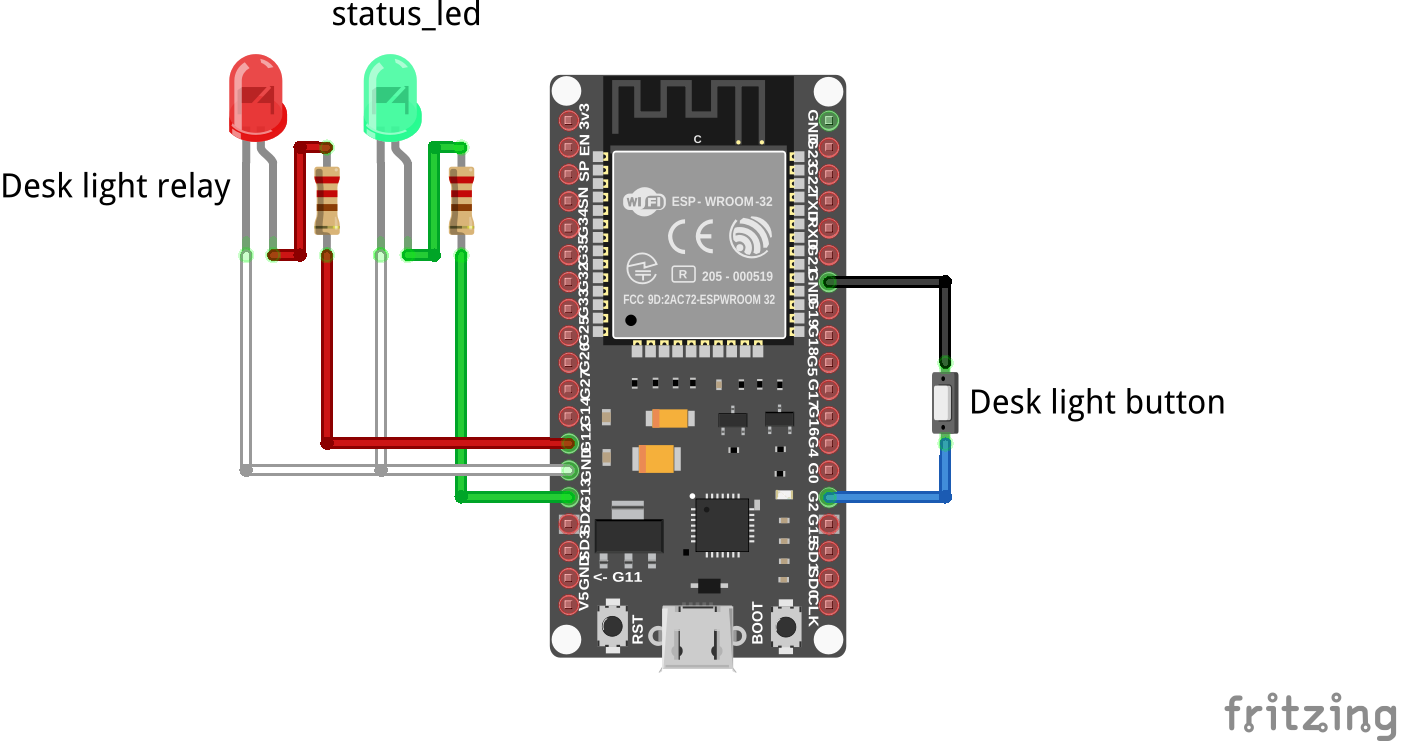
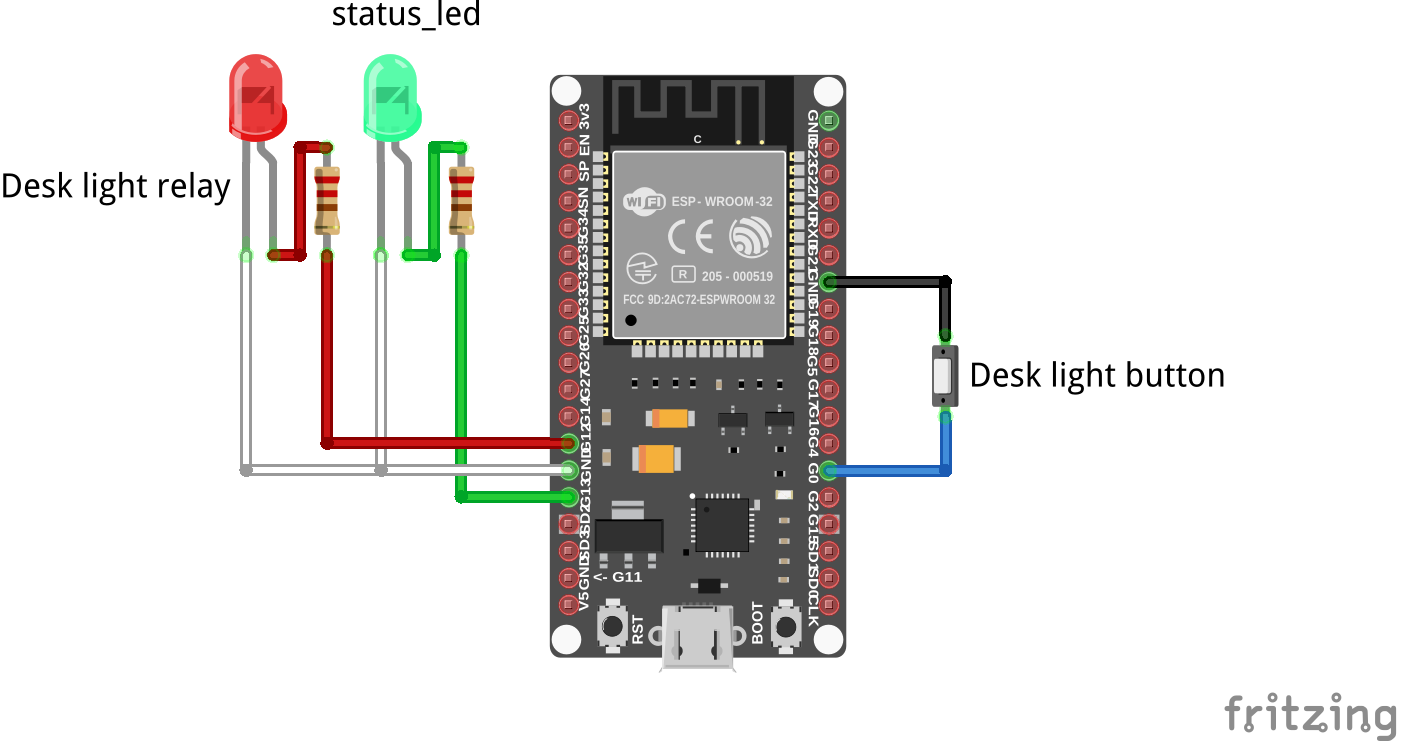
ben forbindelser rettet fra GPIO2 til GPIO0

Changed region(s): [[0.5832, 0.4345, 0.8901, 0.6829]]

diff --git a/Opgave-03.md b/Opgave-03.md
@@ -1,18 +1,18 @@
 # Opgave-03 - Byg en ESP32-kontakt med relæ og signal indikator
-OK, Du har nu oprettede konfigurationsfilen til ESP32-kontakten. Det har dog kun nogle grundlæggende indstillinger.  Din software vil bare oprette forbindelse til din WiFi og intet andet. 
+OK, Du har nu oprettede konfigurationsfilen til ESP32-kontakten. Det har dog kun nogle grundlæggende indstillinger. Din software vil bare oprette forbindelse til din WiFi og intet andet. 
 Så du bliver nødt til at redigere konfigurationsfilen og tilføje et par flere komponenter. For eksempel styre relæet ved at trykke på ESP32-kontakten.
 
 ## Forbind dit ESP32 Kort som vist på billederne  
-Forbinder du nu de 2 LED og trykknappen til din ESP32, kan vi bruge den røde Led til at simulere et relæ og den grønne til at vise forbindelse status med.
- 
+Forbinder du nu de 2 LED og trykknappen til din ESP32, kan vi bruge den røde Led til at simulere et relæ og den grønne til at vise forbindelse status med og bruge trykknappen som tænd og sluk kanp.
+
 ![Opgaver-01_bb.png](/Images/Opgaver-01_bb.png) 
 
 ### Ledninger tilsluttes som følger:
 1. De hvide stifter ved LED forbindes til sorte stifter ved ESP32 (stel)
-2. Den røde stift forbindes til ESP32 GPIO-12 
-3. Den grønne stift forbindes til ESP32 GPIO-13
+2. Den røde stift forbindes til ESP32 GPIO12 
+3. Den grønne stift forbindes til ESP32 GPIO13
 4. En hvide stift fra trykknap forbindes til sorte stifter ved ESP32 (stel)
-5. En hvid stift fra trykknap forbindes til ESP32 GPIO-2
+5. En hvid stift fra trykknap forbindes til ESP32 GPIO0
 
 ## Tilføj komponenter til konfigurationsfilen
 Lad os gennemgå nogle af de tilgængelige indstillinger, som du kan tilføje.  
@@ -21,7 +21,7 @@ Klik på **[EDIT]** for at åbne konfigurationsfilen og indtaste følgende **ned
 binary_sensor:
   - platform: gpio
     pin:
-      number: GPIO2
+      number: GPIO0
       mode: INPUT_PULLUP
       inverted: True
     name: "Desk light button"
@@ -51,9 +51,21 @@ text_sensor:
   - platform: version
     name: "Desk light ESPHome version"
 ```
-* binary_sensor: Checks for anytime the button on the ESP32-kontakten is pressed 
-* switch: Would trigger the relay on and off 
-* status_led: Useful to show the status of a device. Letting you know of any warning or errors 
-* wifi_signal sensor: Monitors the received signal strength
-* uptime sensor: Tracks the time (in seconds) the device has been online
-* version text_sensor: Provides information of the current version of the ESPHome firmware installed on the device
+* binary_sensor: Udføres hvergang ESP32-kontakten bliver påvirket 
+* switch: Vil skifte relæet (Rød LED) til og fra
+* status_led: Nyttigt til at vise status for en enhed. Fortæller dig om advarsler eller fejl
+* wifi_signal sensor: Overvåger den modtagne signalstyrke
+* uptime sensor: Sporer den tid (i sekunder), enheden har været online
+* version text_sensor: Giver oplysninger om den aktuelle version af ESPHome-firmwaren, der er installeret på enheden.
+
+### Save & Close filen  
+Filem bliver gemt som "/config/esphome/esp32_01_sekt.yaml"
+
+## Reprogramer din ESP32 med den nye opsætning
+* Vælg den USB-port som din ESP32 er forbundet til
+* Check Config, hvis ok så fortsæt med næste punkt ellers ret fejl
+* Upload nu ændringer til din ESP32
+* Du skal nu gerne se noget som dette:
+```
+
+```
